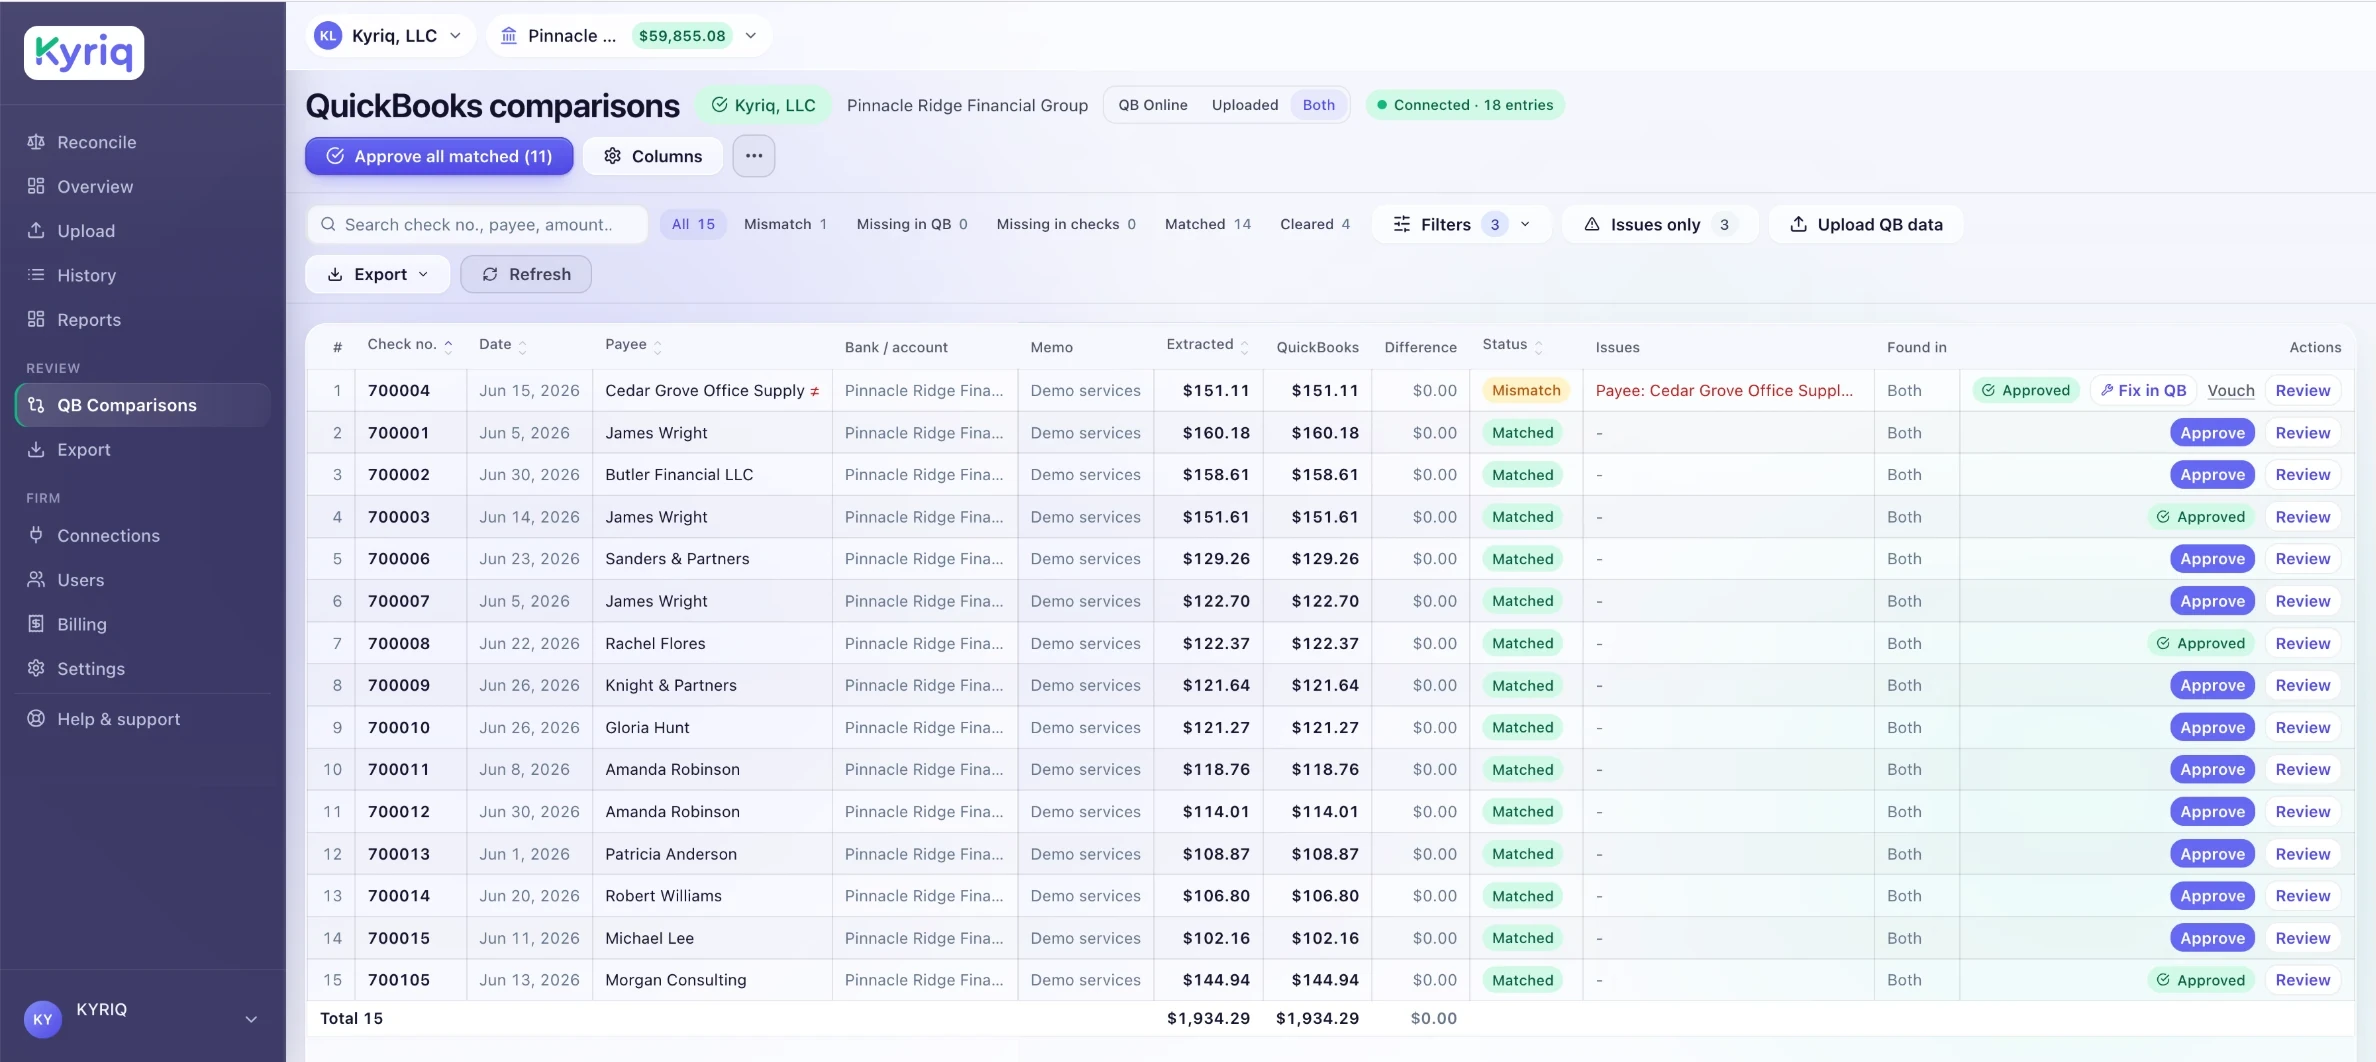
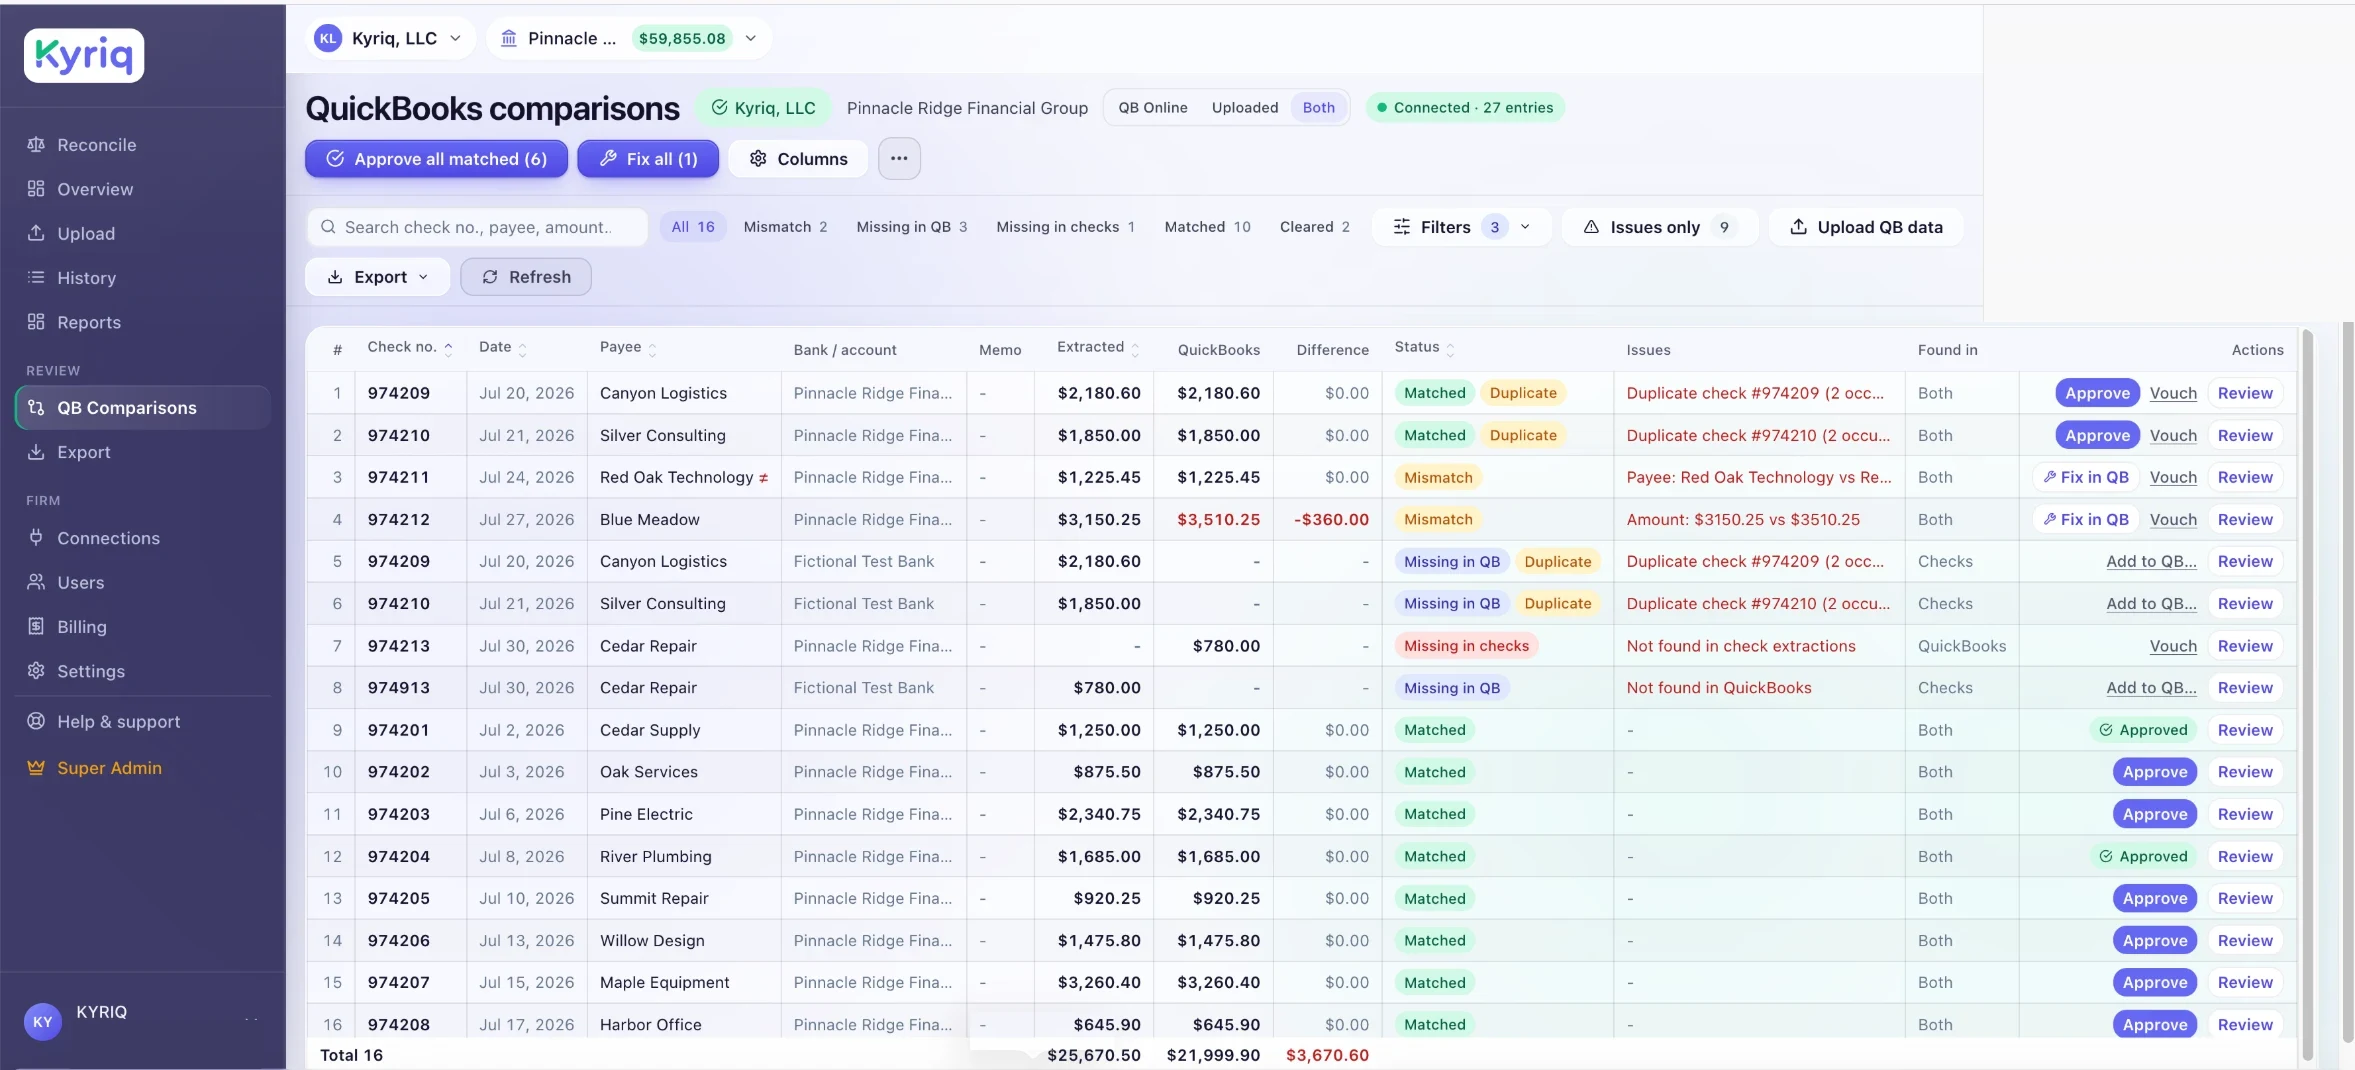
fix: re-uploading a deleted file offered "Keep both" with nothing to keep; website shots were old
Michael (19 Nov): after deleting an upload, the re-upload prompt has no
Replace (correct, nothing left to replace) but its only button said
"Keep both". It now says "Upload again". Extension 1.2.22.

Website: the extension and QB comparisons images are replaced with the
current screenshots (docs/website-shots).

Verified: node --check. NOT verified: the new images on the live page.

diff --git a/chrome-extension/sidepanel/sidepanel.js b/chrome-extension/sidepanel/sidepanel.js
@@ -1748,7 +1748,7 @@ function showDuplicate(fileName, when, previousJobId = null) {
       + (previousJobId ? ' Replace swaps the earlier upload for this one, so no cheque is listed twice.' : ''),
     [
       ...(previousJobId ? [{ label: 'Replace earlier upload', primary: true, onClick: replace }] : []),
-      { label: 'Keep both', primary: !previousJobId, onClick: () => runExtraction({ confirmReupload: true }) },
+      { label: previousJobId ? 'Keep both' : 'Upload again', primary: !previousJobId, onClick: () => runExtraction({ confirmReupload: true }) },
       { label: 'Skip', onClick: () => setUploadStep(1) },
     ]);
 }
